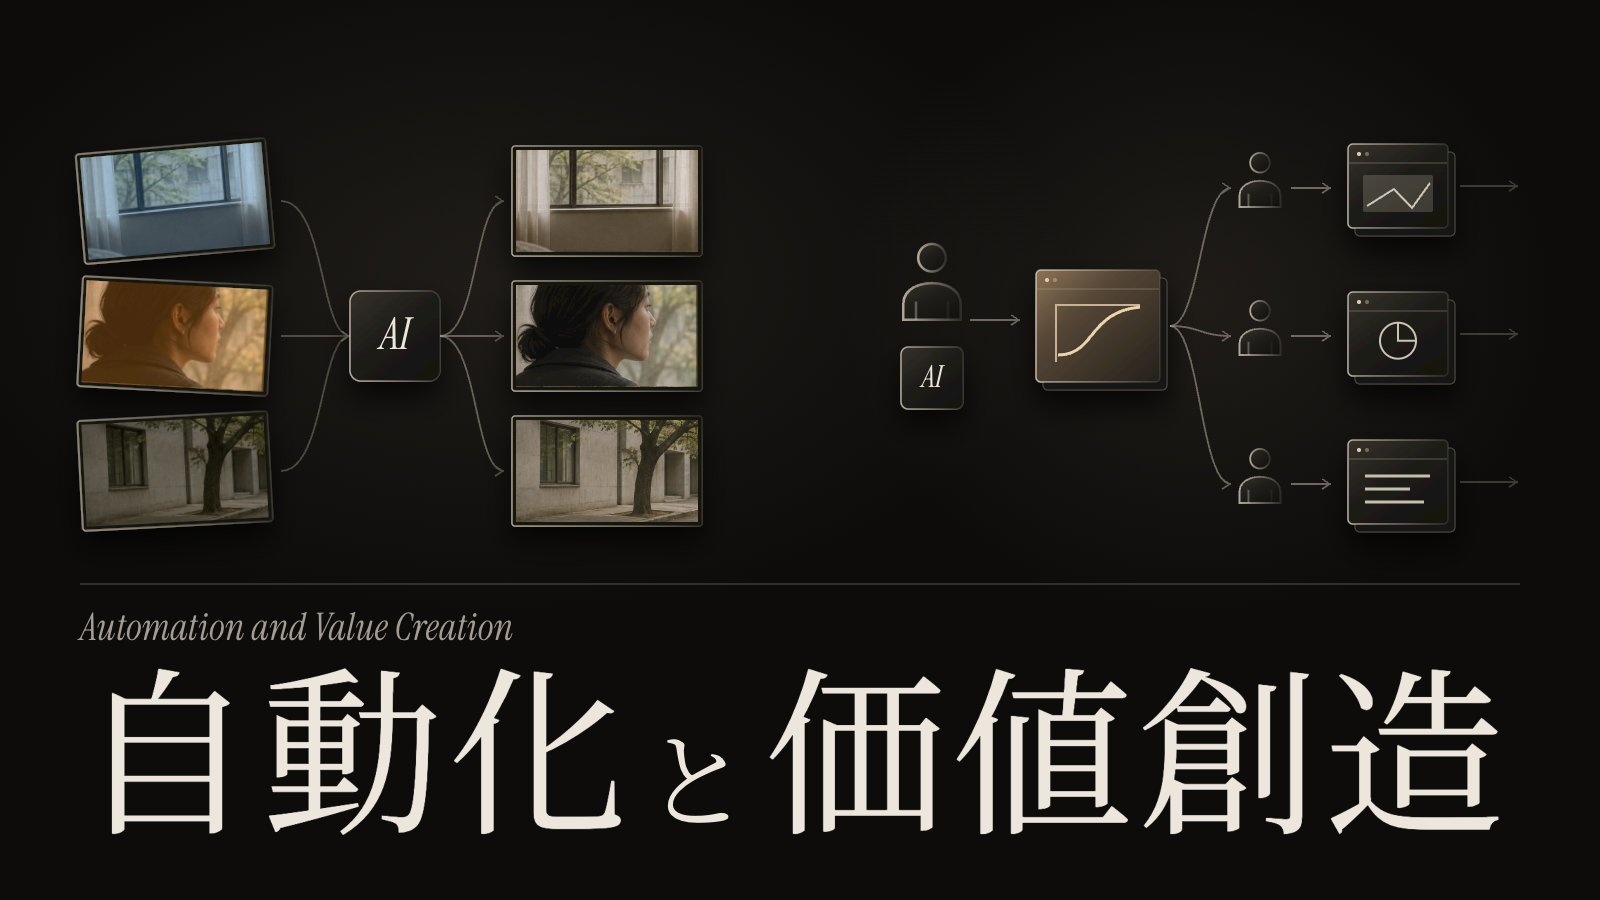
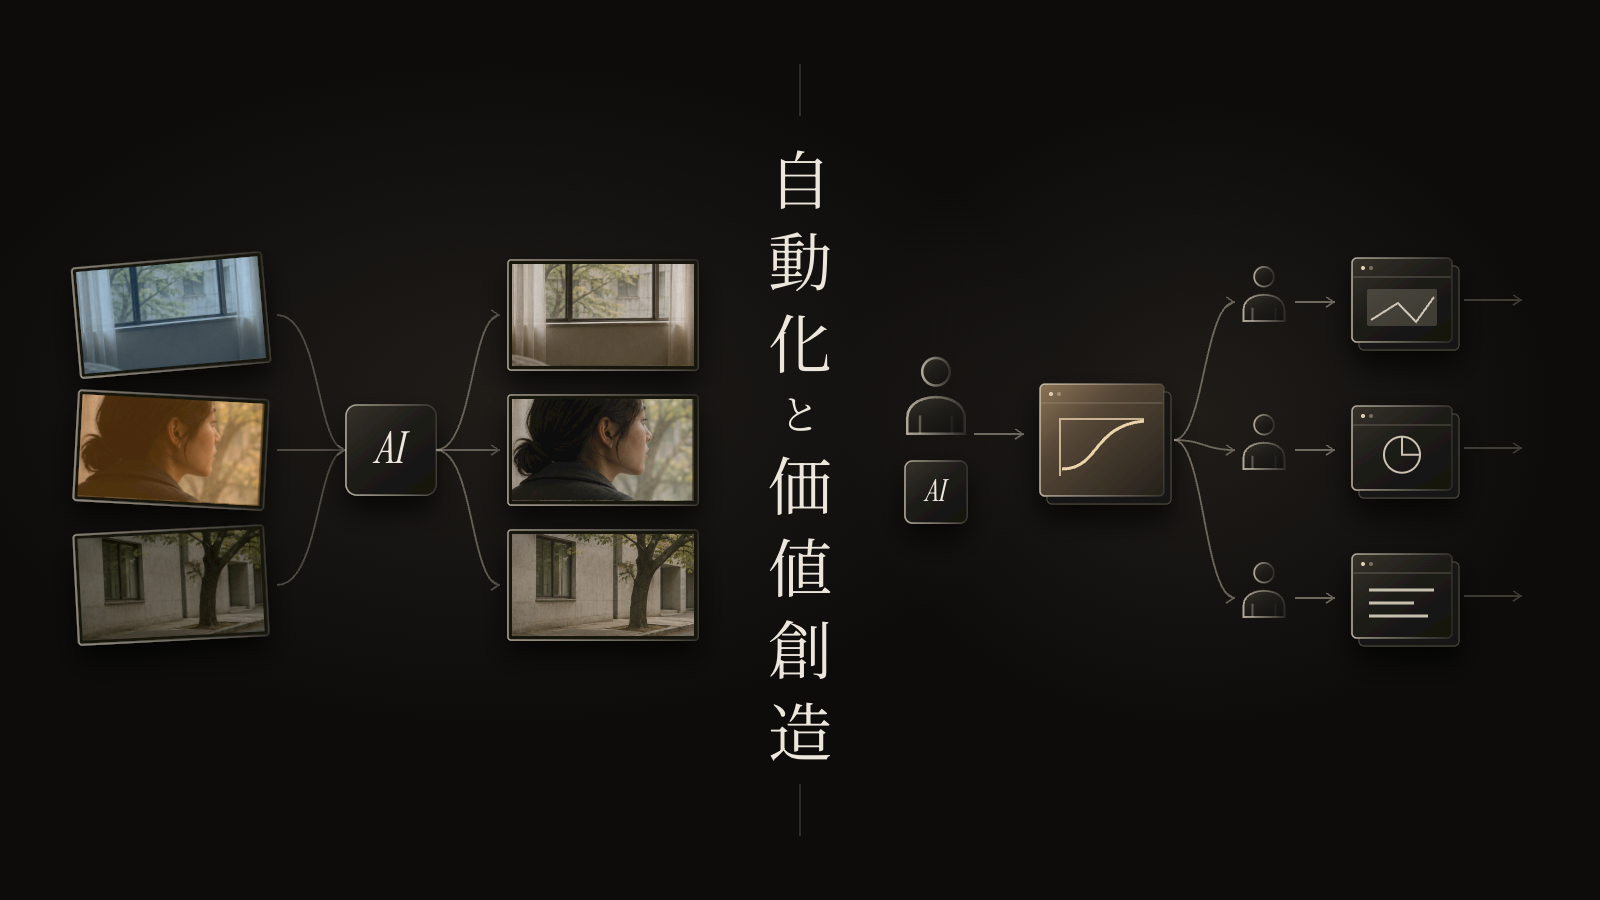
fix(notes): AI考察のサムネイルを縦書きの題字を軸にした組みへ替える
則兼さんが文字組み3案から縦書きを選んだため。

Claude-Session: https://claude.ai/code/session_01LTiJkvyxFAUn8RGzPrfQuX

diff --git a/docs/notes/ai-thoughts-thumbnail.md b/docs/notes/ai-thoughts-thumbnail.md
@@ -8,11 +8,11 @@
 右は人とAIが一つの道具を作り、それを他の人が使って別の制作物を生む流れ。
 記事タイトル、製品名、作品名は画像に入れない。
 
-見出しは「自動化」「価値創造」。見出しの下に説明は付けない。
-図、色、配置、書体、見出し位置は案1を維持し、1600×900 PNGで収録する。
+題字は「自動化と価値創造」。Noto Serif JP の縦書きで左右の図の間に置き、左右を分ける軸にする（「と」だけ小さく、上下に細い線）。見出しの下に説明は付けない。
+則兼さんが文字組み3案（縦書きの軸／左右の大見出し／下に大きな題字）から縦書きを選んだ（2026-11-22）。1600×900 PNG で収録する。
 参照先は `public/notes/thumbnails/ai-thoughts-diagram.png`。
-画像、SVG、再描画スクリプト、カード確認画像、検証ログは
-`~/tmp/hp-thumb-ai-thoughts/v4/` に保存する。写真素材は `../v3/film-source.png` を再利用する。
+画像、再描画スクリプト（`render.cjs` の layout 1）、カード確認画像、検証ログは
+`~/tmp/hp-thumb-ai-thoughts/v6/` に保存する。写真素材は `../v3/film-source.png` を再利用する。
 
 ## 制作方法
 
